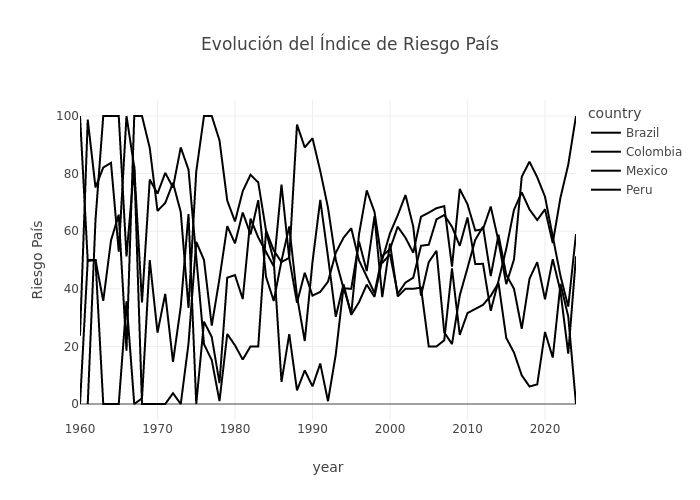
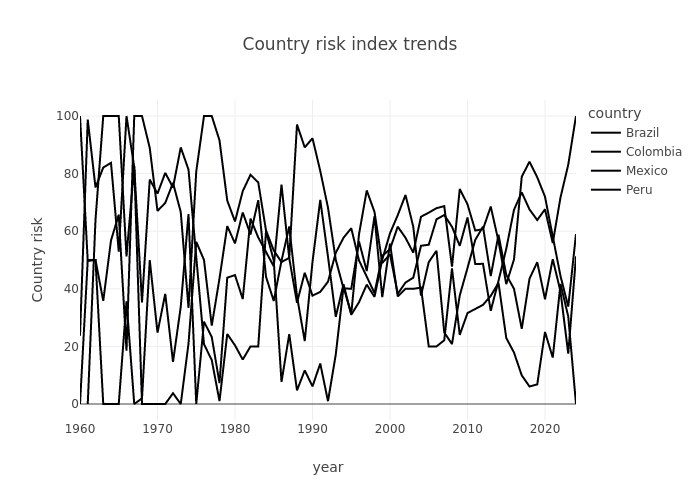
Modificacion al boton de descarga del reporte

Changed region(s): [[0.27, 0.06, 0.72, 0.12], [0.03, 0.42, 0.06, 0.6]]

diff --git a/src/interactive_dashboard.py b/src/interactive_dashboard.py
@@ -19,7 +19,7 @@ import xlsxwriter
 st.set_page_config(page_title="Country Risk Dashboard", layout="wide")
 
 st.title("Country Risk Index Dashboard")
-st.markdown("Visualiza la evolución del índice de riesgo país en un mapa interactivo y gráfico comparativo.")
+st.markdown("This interactive map displays the Country Risk Index, a measure that evaluates the economic risk level of each country based on factors such as inflation, GDP growth, current account balance, and external debt. Darker colors indicate higher risk, while lighter colors represent lower risk. Select a year to see how the risk has evolved across countries.")
 
 # ===========================
 # Cargar Datos
@@ -39,7 +39,7 @@ else:
     # Filtros Interactivos
     # ===========================
     years = sorted(df['year'].unique())
-    selected_year = st.selectbox("Selecciona el año para el mapa", years, index=len(years) - 1)
+    selected_year = st.selectbox("Choose a year for the map", years, index=len(years) - 1)
 
     # Filtrar los datos para el año seleccionado
     df_filtered = df[df['year'] == selected_year]
@@ -47,7 +47,7 @@ else:
     # ===========================
     # Mapa Interactivo (Plotly Choropleth)
     # ===========================
-    st.subheader(f"Mapa interactivo del Índice de Riesgo País - {selected_year}")
+    st.subheader(f"Interactive Country Risk Index Map. - {selected_year}")
 
     fig_map = px.choropleth(
         df_filtered,
@@ -57,17 +57,17 @@ else:
         hover_name="country",
         color_continuous_scale="RdYlGn_r",
         range_color=(0, 100),
-        title=f"Índice de Riesgo País - {selected_year}"
+        title=f"Country Risk Index - {selected_year}"
     )
     st.plotly_chart(fig_map, use_container_width=True)
 
     # ===========================
     # Gráfico Comparativo de Indicadores
     # ===========================
-    st.subheader("Comparación de indicadores")
+    st.subheader("Indicator comparison")
 
     countries = df['country'].unique().tolist()
-    selected_countries = st.multiselect("Selecciona países", countries, default=countries)
+    selected_countries = st.multiselect("Choose countries.", countries, default=countries)
     df_filtered_countries = df[df['country'].isin(selected_countries)]
 
     fig_line = px.line(
@@ -75,66 +75,67 @@ else:
         x="year",
         y="risk_score",
         color="country",
-        title="Evolución del Índice de Riesgo País",
-        labels={"risk_score": "Riesgo País"}
+        title="Country risk index trends",
+        labels={"risk_score": "Country risk"}
     )
     st.plotly_chart(fig_line, use_container_width=True)
 
     # ===========================
-    # Análisis Automático
+    # Resumen automático
     # ===========================
-    st.subheader("Análisis: Índice de riesgo país (ejemplo)")
+    st.subheader("Summary")
     
     highest_risk = df_filtered.loc[df_filtered['risk_score'].idxmax()]
     lowest_risk = df_filtered.loc[df_filtered['risk_score'].idxmin()]
 
     analysis_text = (
-        f"En el año {selected_year}, el país con mayor riesgo fue {highest_risk['country']} "
-        f"con un índice de {highest_risk['risk_score']:.2f}.\n\n"
-        f"En el mismo año, el país con menor riesgo fue {lowest_risk['country']} "
-        f"con un índice de {lowest_risk['risk_score']:.2f}."
+        f"In the year {selected_year}, the country with the highest risk was {highest_risk['country']} "
+        f"with a score of {highest_risk['risk_score']:.2f}.\n\n"
+        f"In the same year, the country with the lowest risk was {lowest_risk['country']} "
+        f"with a score of {lowest_risk['risk_score']:.2f}."
     )
+
     st.markdown(analysis_text)
 
     # ===========================
-    # Exportar a Excel
+    # Exportar a Excel (Descarga directa)
     # ===========================
-    st.subheader("Exportar análisis a Excel")
+    st.subheader("Export data to Excel")
 
-    if st.button("Descargar reporte Excel"):
-        # Crear un buffer en memoria para el archivo Excel
-        buffer = io.BytesIO()
+    # Crear un buffer en memoria para el archivo Excel
+    buffer = io.BytesIO()
 
-        # Crear el archivo Excel en el buffer
-        with pd.ExcelWriter(buffer, engine='xlsxwriter') as writer:
-            # Hoja 1: Datos de análisis
-            df_filtered.to_excel(writer, sheet_name="Datos de Análisis", index=False)
-            
-            # Hoja 2: Gráficos (capturas)
-            workbook = writer.book
-            worksheet = workbook.add_worksheet("Gráficos")
-            writer.sheets["Gráficos"] = worksheet
+    # Crear el archivo Excel en el buffer
+    with pd.ExcelWriter(buffer, engine='xlsxwriter') as writer:
+        # Hoja 1: Datos de análisis
+        df_filtered.to_excel(writer, sheet_name="Data", index=False)
+        
+        # Hoja 2: Gráficos (capturas)
+        workbook = writer.book
+        worksheet = workbook.add_worksheet("Charts")
+        writer.sheets["Charts"] = worksheet
 
-            # Exportar el mapa y el gráfico como imágenes
-            map_img_path = "outputs/reports/map_image.png"
-            line_img_path = "outputs/reports/line_image.png"
-            
-            # Guardar imágenes usando kaleido
-            fig_map.write_image(map_img_path, engine="kaleido")
-            fig_line.write_image(line_img_path, engine="kaleido")
+        # Exportar el mapa y el gráfico como imágenes
+        map_img_path = "outputs/reports/map_image.png"
+        line_img_path = "outputs/reports/line_image.png"
+        
+        # Guardar imágenes usando kaleido
+        fig_map.write_image(map_img_path, engine="kaleido")
+        fig_line.write_image(line_img_path, engine="kaleido")
 
-            # Insertar las imágenes en la hoja de gráficos
-            worksheet.insert_image("B2", map_img_path)
-            worksheet.insert_image("B22", line_img_path)
+        # Insertar las imágenes en la hoja de gráficos
+        worksheet.insert_image("B2", map_img_path)
+        worksheet.insert_image("B22", line_img_path)
 
-        # Colocar el puntero del buffer al inicio
-        buffer.seek(0)
+    # Colocar el puntero del buffer al inicio
+    buffer.seek(0)
 
-        # Descargar el archivo en Streamlit
-        st.download_button(
-            label="Descargar reporte a Excel",
-            data=buffer,
-            file_name="Country_Risk_Report.xlsx",
-            mime="application/vnd.openxmlformats-officedocument.spreadsheetml.sheet"
-        )
+    # Descargar el archivo directamente (un solo botón)
+    st.download_button(
+        label="Download",
+        data=buffer,
+        file_name="Country_Risk_Report.xlsx",
+        mime="application/vnd.openxmlformats-officedocument.spreadsheetml.sheet"
+    )
+
 
